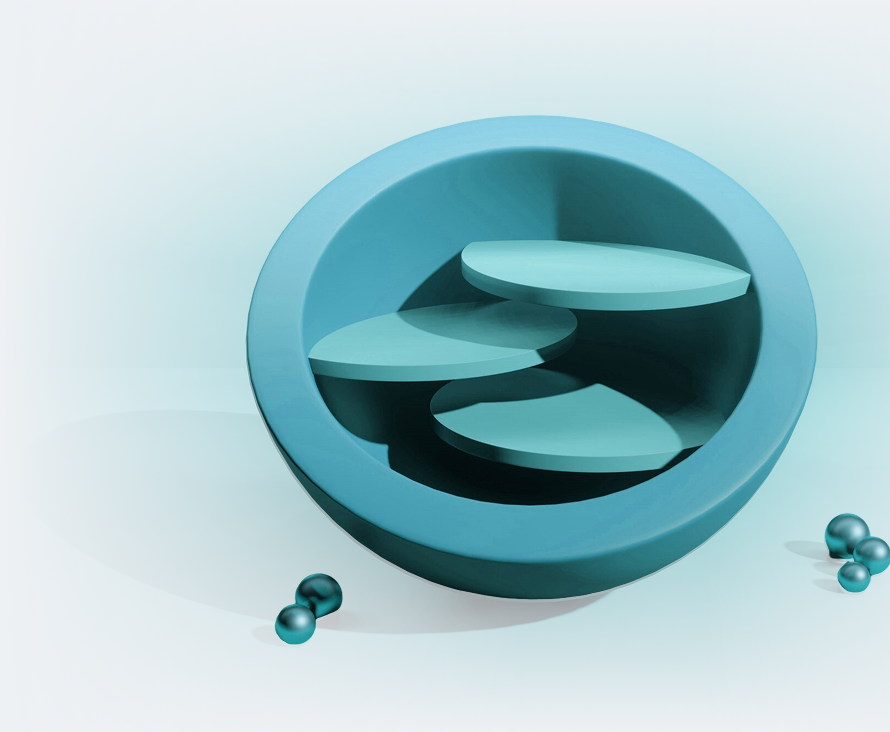
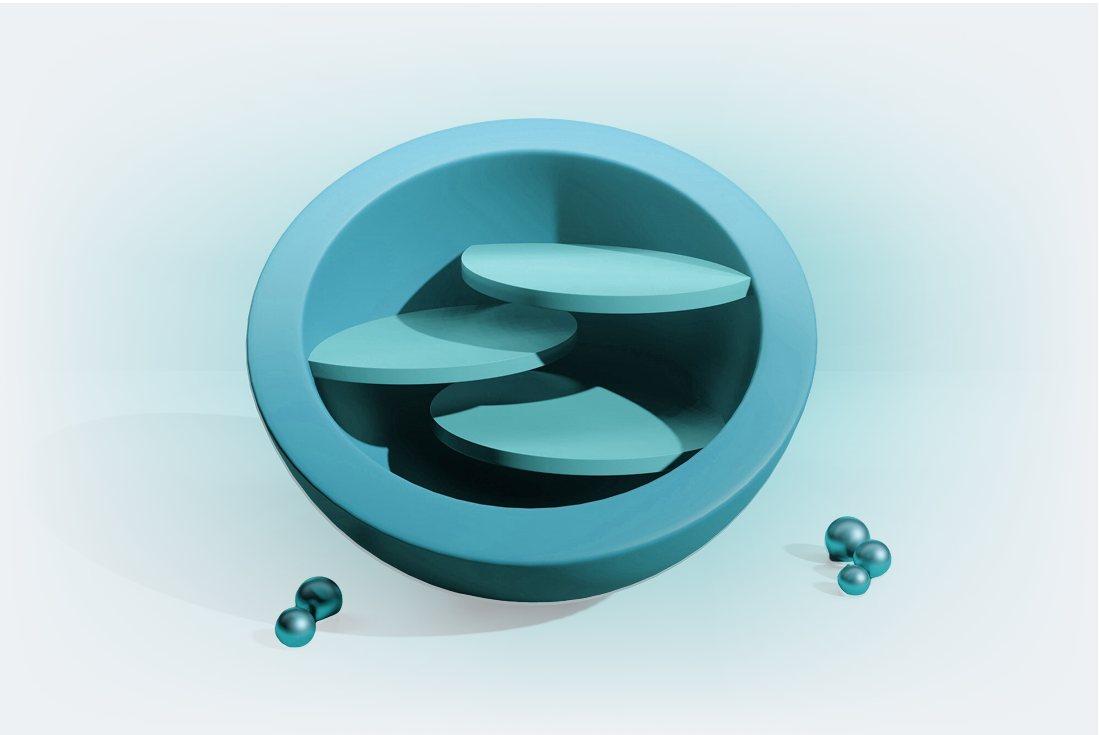
chore: update insights page, BaseEngagement styles, and half-spear asset

diff --git a/src/assets/styles/components/BaseEngagement.scss b/src/assets/styles/components/BaseEngagement.scss
@@ -64,6 +64,7 @@
     display: flex;
     align-items: center;
     justify-content: center;
+    margin-right: -150px;
   }
 }
 

diff --git a/src/views/Insights/InsightsMain.vue b/src/views/Insights/InsightsMain.vue
@@ -20,6 +20,5 @@ const searchQuery = ref('')
 
 function handleSearch(query) {
   searchQuery.value = query
-  // filter your insights list here once data is available
 }
 </script>